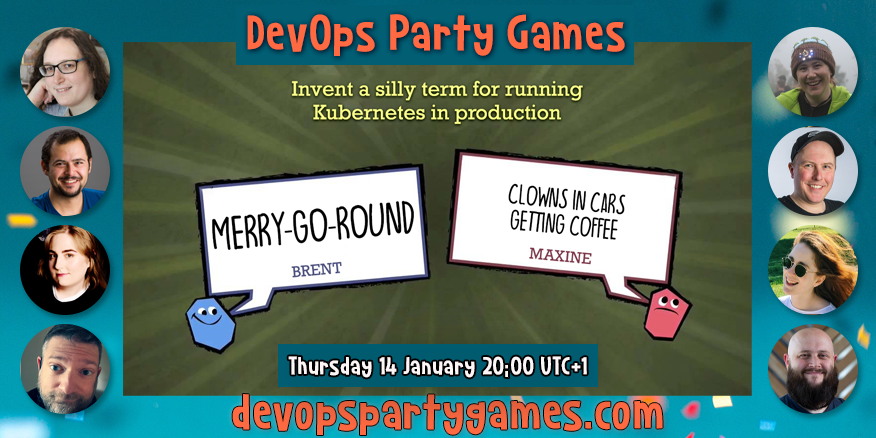
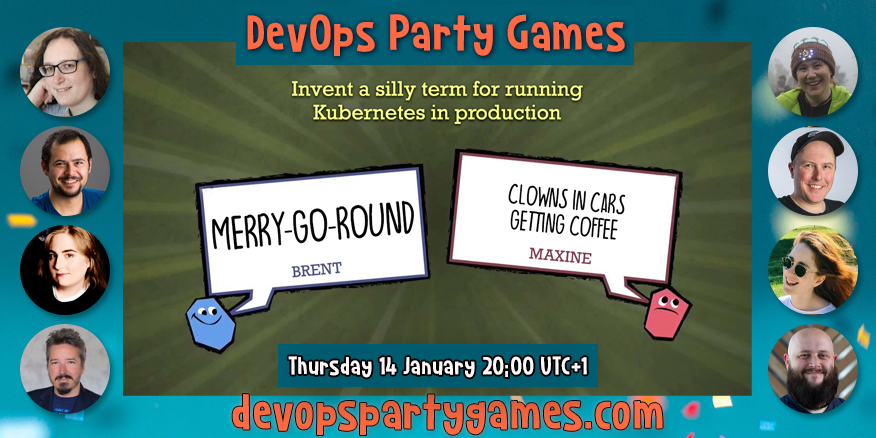
Update with CZ

Changed region(s): [[0.0, 0.742, 0.1233, 0.9498]]

diff --git a/src/pages/posts/s02e01.md b/src/pages/posts/s02e01.md
@@ -21,7 +21,7 @@ Join the livestream at [twitch.tv/mattstratton](https://twitch.tv/mattstratton)
 <a href = "https://twitter.com/stormy_prime" class = "player-episode-page" target = "_blank"><img src = "/images/players/stormy.png" alt="Stormy" width="200" height="100" class = "player-episode-page"></a>
 <a href = "https://twitter.com/srhtcn" class = "player-episode-page" target = "_blank"><img src = "/images/players/serhat-can.png" alt="Serhat Cat" width="200" height="100" class = "player-episode-page"></a>
 <a href = "https://twitter.com/LucyDavinhart" class = "player-episode-page" target = "_blank"><img src = "/images/players/lucy-davinhart.png" alt="Lucy Davinhart" width="200" height="100" class = "player-episode-page"></a>
-<a href = "https://twitter.com/IAmJerdog" class = "player-episode-page" target = "_blank"><img src = "/images/players/jeremy-meiss.png" alt="Jeremy Meiss" width="200" height="100" class = "player-episode-page"></a>
+<a href = "https://twitter.com/pczarkowski" class = "player-episode-page" target = "_blank"><img src = "/images/players/paul-czarkowski.png" alt="Paul Czarkowski" width="200" height="100" class = "player-episode-page"></a>
 <a href = "https://twitter.com/web_goddess" class = "player-episode-page" target = "_blank"><img src = "/images/players/kris-howard.png" alt="Kris Howard" width="200" height="100" class = "player-episode-page"></a>
 <a href = "https://twitter.com/kaipmdh" class = "player-episode-page" target = "_blank"><img src = "/images/players/kai-hoffman.png" alt="Kai Hoffman" width="200" height="100" class = "player-episode-page"></a>
 <a href = "https://twitter.com/jessalyn" class = "player-episode-page" target = "_blank"><img src = "/images/players/jessica-brown.png" alt="Jessica Brown" width="200" height="100" class = "player-episode-page"></a>
